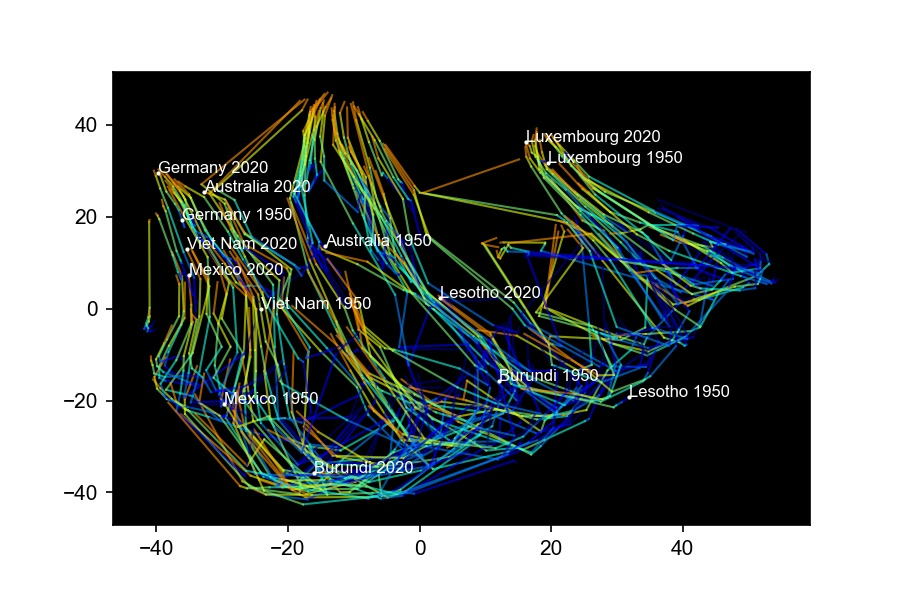
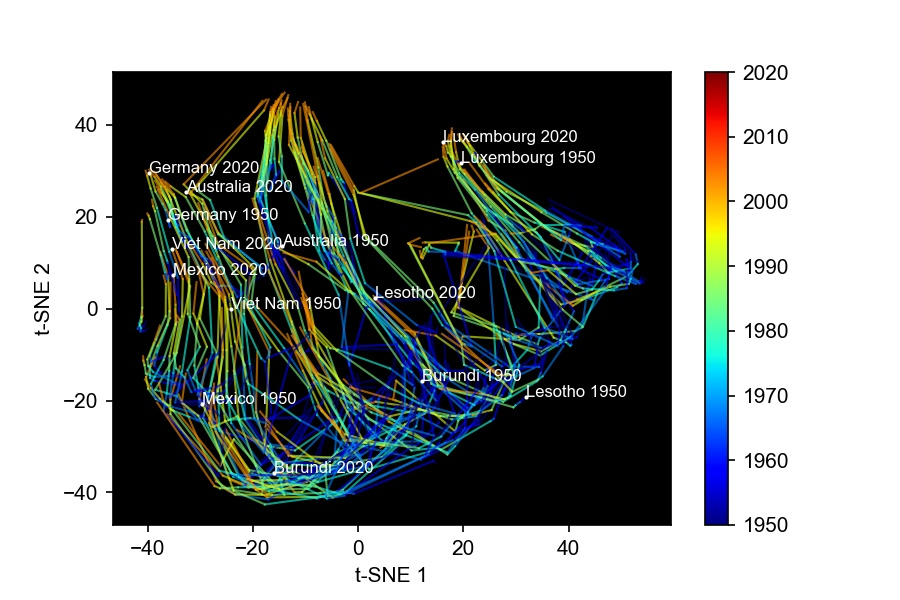
Add files via upload

diff --git a/multivariate_temporal_trajectories_visualization.py b/multivariate_temporal_trajectories_visualization.py
@@ -6,6 +6,9 @@ Created on Sun Nov 08 14:28:40 2020
 """
 
 import matplotlib.pyplot as plt
+import matplotlib.cm as cm
+from matplotlib.cm import ScalarMappable
+from matplotlib.colors import Normalize
 import numpy as np
 import pandas as pd
 import matplotlib.pyplot as plt    
@@ -69,29 +72,6 @@ for year in years:
 
 ###############################################################################
 
-fig,ax=plt.subplots()
-ax.scatter(x=datadf['medianage'].values,y=np.log(datadf['pop'].values),s=1,alpha=0.5)
-ax.set_ylabel('Log(Population)')
-ax.set_xlabel('Median age')
-plt.show()
-fig.savefig('scat_pop_medage.jpg',dpi=90) 
-
-fig,ax=plt.subplots()
-ax.scatter(x=datadf['sexratio'].values,y=np.log(datadf['pop'].values),s=1,alpha=0.5)
-ax.set_ylabel('Log(Population)')
-ax.set_xlabel('Women per 100 men')
-plt.show()
-fig.savefig('scat_pop_sexratio.jpg',dpi=90) 
-
-fig,ax=plt.subplots()
-ax.scatter(x=datadf['medianage'].values,y=datadf['sexratio'].values,s=1,alpha=0.5)
-ax.set_xlabel('Median age')
-ax.set_ylabel('Women per 100 men')
-plt.show()
-fig.savefig('scat_medianage_sexratio.jpg',dpi=90)
-
-###############################################################################
-
 datadf=datadf.sort_values(by=['object','time'])
 
 #transform to log, assumed to be skewed
@@ -139,8 +119,14 @@ for objid,objdf in datadf.groupby('object'):
                 plt.annotate(obj_dict[objid]+' %s' %years[count], (currptsx[segment], currptsy[segment]),color='white',fontsize=8,zorder=2)
                 plt.scatter(x=currptsx[segment], y=currptsy[segment],c='white',s=1,zorder=2)
         count+=1
-                                 
+                                
 ax = plt.gca()
-ax.set_facecolor('black')         
+ax.set_facecolor('black')   
+ax.set_xlabel('t-SNE 1')
+ax.set_ylabel('t-SNE 2')  
 plt.show()
+cmappable = ScalarMappable(Normalize(years[0],years[-1]),cmap=cmap)
+cmappable.set_array([years[0],years[-1]])
+fig.colorbar(cmappable)
+#fig.colorbar(cm.ScalarMappable(norm=cNorm,cmap=cmap))     
 fig.savefig('tsne_trajectories.jpg',dpi=150)    
